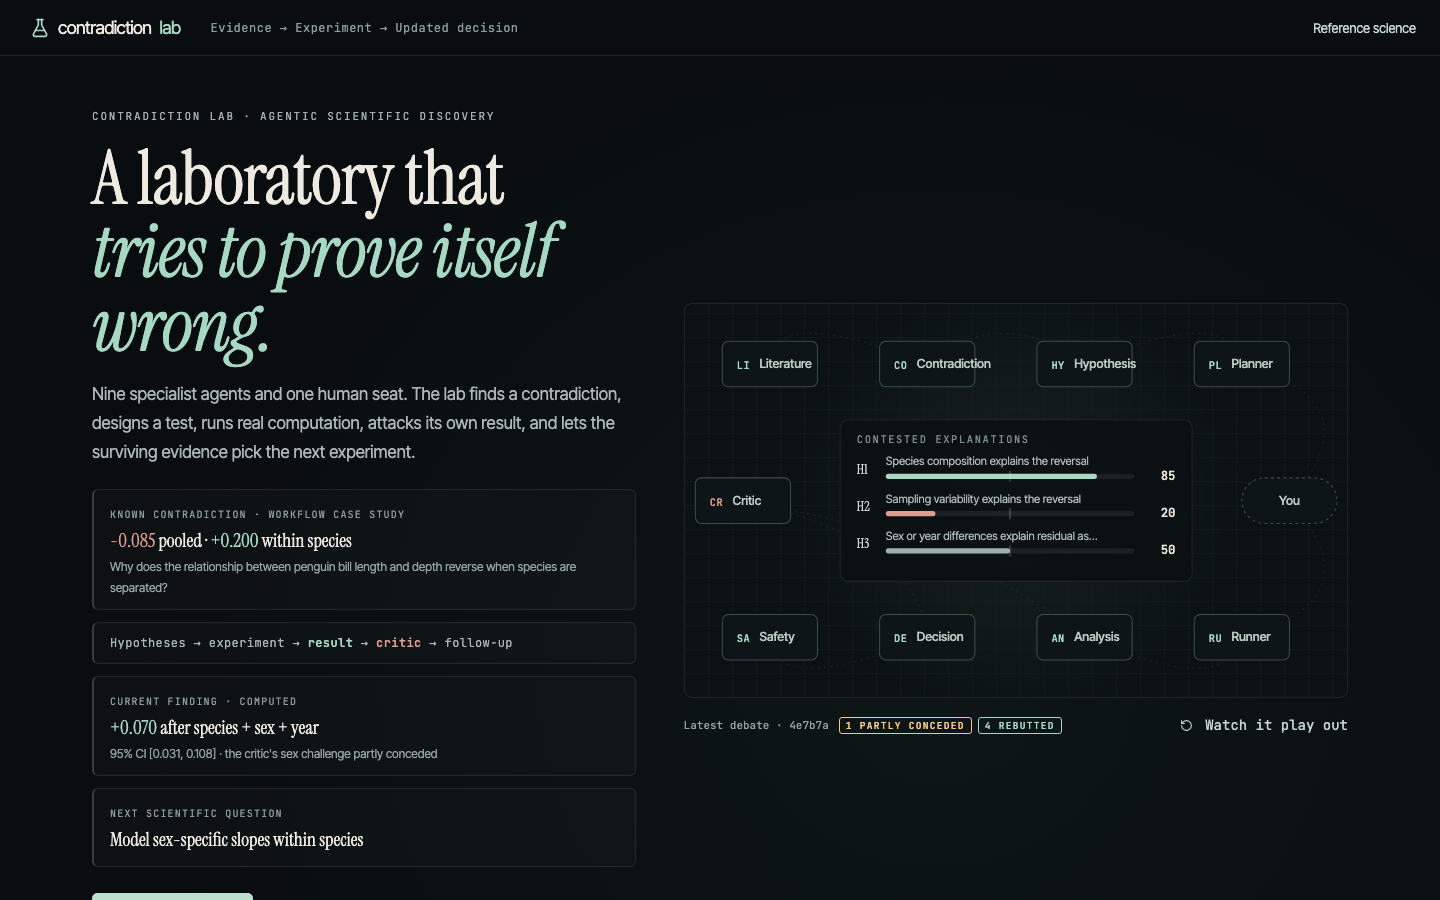
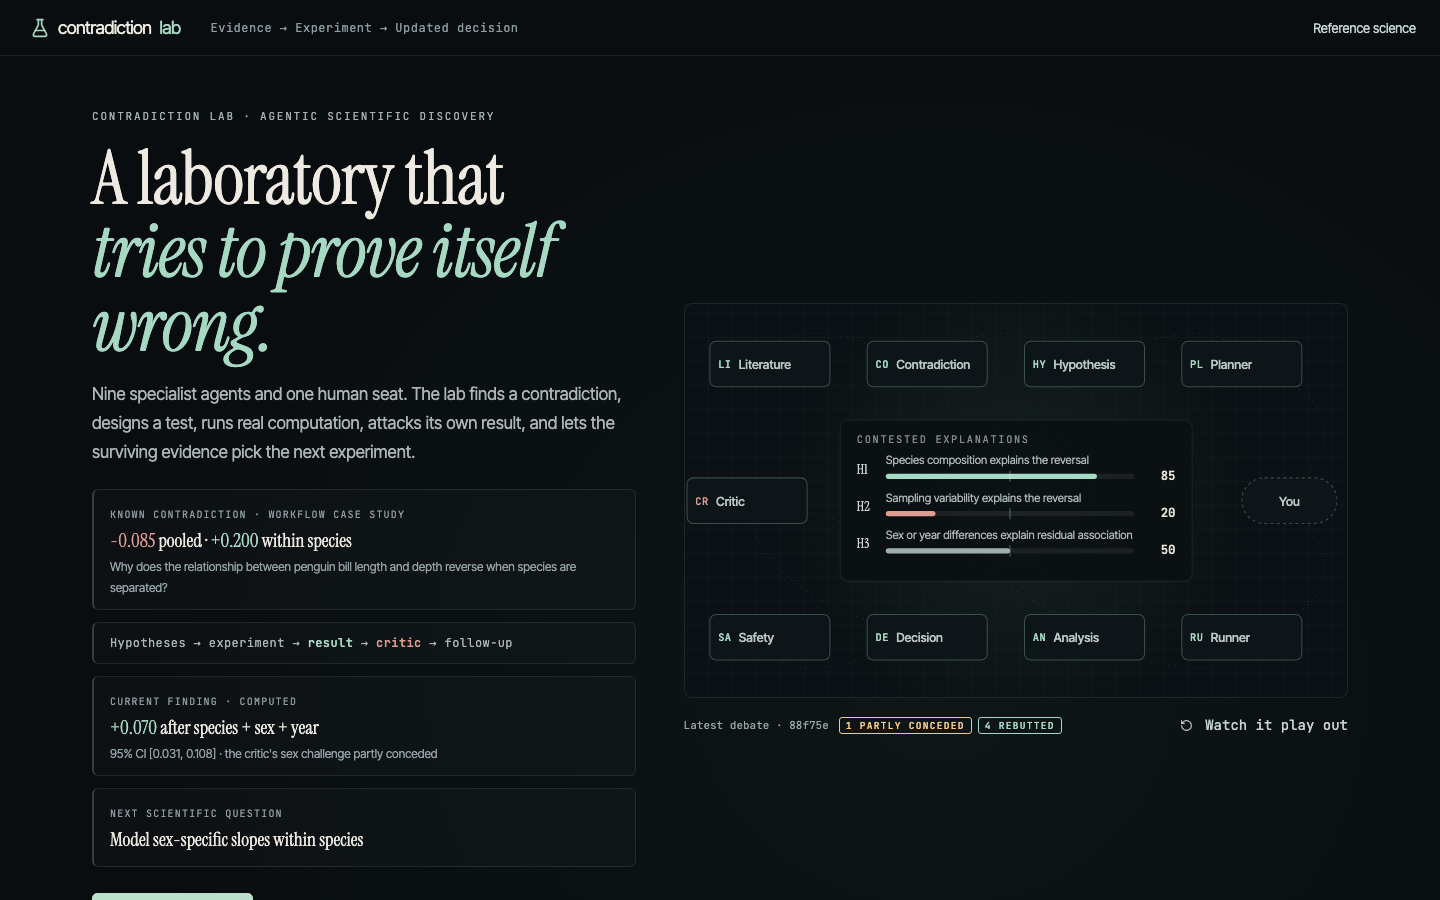
Arena text containment: HTML labels in SVG, flowed verdicts, stress-tested
Root causes, not symptoms: SVG <text> cannot wrap and ignores CSS overflow
rules, so seat names ("Contradiction") and board statements escaped their
rectangles no matter what overflow-wrap was set; the challenge cards'
absolutely-positioned verdict stamp could collide with long attack text.

- Seat and board labels now render as HTML inside <foreignObject>, with
  min-width: 0, hidden overflow and a real ellipsis; agent seats widened
  (92 → 116) so every real name fits and the ellipsis is only a safety net
- Challenge cards use flow layout (flex column, verdict via margin-top:
  auto) so cards grow vertically with long text instead of overlapping
- Transcript speaker column survives unbroken tokens (min-width: 0 +
  overflow-wrap: anywhere); packet pill width uses a mono-safe estimate
- Permanent Playwright stress test injects a 380-character unbroken string
  into a challenge card, the gap callout, a transcript line, a seat name
  and a board statement, then asserts no page or card overflow and real
  ellipsis clipping on the SVG-embedded labels

diff --git a/frontend/src/arena/Arena.tsx b/frontend/src/arena/Arena.tsx
@@ -16,7 +16,7 @@ const SEATS: Record<AgentId, { x: number; y: number }> = {
   AnalysisAgent: { x: 386, y: 322 },
   DecisionAgent: { x: 234, y: 322 },
   SafetyAgent: { x: 82, y: 322 },
-  CriticAgent: { x: 56, y: 190 },
+  CriticAgent: { x: 60, y: 190 },
 };
 const LANES: [AgentId, AgentId][] = [
   ['LiteratureAgent', 'ContradictionAgent'],
@@ -77,7 +77,7 @@ function Packet({ beat, speed }: { beat: Beat; speed: number }) {
   const p = at(r, t);
   const raw = beat.kind === 'defend' ? beat.label.toUpperCase() : beat.label;
   const label = raw.length > 24 ? raw.slice(0, 23) + '…' : raw;
-  const width = Math.min(180, label.length * 6.6 + 18);
+  const width = Math.min(190, label.length * 6.8 + 18);
   const payload = beat.kind === 'handoff' && beat.payload ? ' k-' + beat.payload : '';
   return (
     <g className={'packet ' + TONE[beat.kind] + payload} style={{ opacity: t >= 1 ? 0.0 : 1 }}>
@@ -95,26 +95,26 @@ function Packet({ beat, speed }: { beat: Beat; speed: number }) {
 function Seat({ id, state }: { id: AgentId; state: 'idle' | 'done' | 'active' | 'waiting' }) {
   const agent = agentOf(id)!;
   const { x, y } = SEATS[id];
+  // Wide enough for every real agent name; the label still ellipsizes as a safety net.
+  const width = id === 'Human' ? 92 : 116;
   return (
     <g
       className={'seat ' + state + (id === 'Human' ? ' human' : '') + (id === 'CriticAgent' ? ' critic' : '')}
     >
       {state === 'active' && <circle className="ripple" cx={x} cy={y} r={30} />}
-      <rect x={x - 46} y={y - 22} width={92} height={44} rx={id === 'Human' ? 22 : 6} />
-      {id === 'Human' ? (
-        <text className="name" x={x} y={y + 4} textAnchor="middle">
-          {state === 'waiting' ? 'You · approve' : 'You'}
-        </text>
-      ) : (
-        <>
-          <text className="initials" x={x - 32} y={y + 5}>
-            {agent.initials}
-          </text>
-          <text className="name" x={x - 10} y={y + 4}>
-            {agent.short}
-          </text>
-        </>
-      )}
+      <rect x={x - width / 2} y={y - 22} width={width} height={44} rx={id === 'Human' ? 22 : 6} />
+      <foreignObject x={x - width / 2} y={y - 22} width={width} height={44}>
+        <div className={'seat-label' + (id === 'Human' ? ' centered' : '')} title={agent.name}>
+          {id === 'Human' ? (
+            <span className="seat-name">{state === 'waiting' ? 'You · approve' : 'You'}</span>
+          ) : (
+            <>
+              <span className="seat-initials">{agent.initials}</span>
+              <span className="seat-name">{agent.short}</span>
+            </>
+          )}
+        </div>
+      </foreignObject>
     </g>
   );
 }
@@ -147,9 +147,11 @@ function Board({ record }: { record: RecordData | null }) {
             <text className="hid" x={166} y={y + 4}>
               {h.hypothesis_id}
             </text>
-            <text className="statement" x={194} y={y - 4}>
-              {h.statement.length > 44 ? h.statement.slice(0, 43) + '…' : h.statement}
-            </text>
+            <foreignObject x={194} y={y - 17} width={240} height={16}>
+              <div className="board-statement" title={h.statement}>
+                {h.statement}
+              </div>
+            </foreignObject>
             <rect className="track" x={194} y={y + 4} width={240} height={5} rx={2.5} />
             <rect className="fill" x={194} y={y + 4} width={(240 * value) / 100} height={5} rx={2.5} />
             <line className="prior" x1={194 + 120} x2={194 + 120} y1={y + 1} y2={y + 12} />

diff --git a/frontend/src/style.css b/frontend/src/style.css
@@ -2006,37 +2006,54 @@ meter::-webkit-meter-optimum-value {
     stroke 0.25s,
     fill 0.25s;
 }
-.seat text {
-  fill: #6f7d80;
-  transition: fill 0.25s;
+.seat-label {
+  box-sizing: border-box;
+  height: 100%;
+  display: flex;
+  align-items: center;
+  gap: 7px;
+  padding: 0 8px;
+  min-width: 0;
+  overflow: hidden;
+  color: #6f7d80;
+  transition: color 0.25s;
 }
-.seat .initials {
+.seat-label.centered {
+  justify-content: center;
+  padding: 0 6px;
+}
+.seat-initials {
+  flex-shrink: 0;
   font: 600 10px var(--mono);
   letter-spacing: 0.5px;
 }
-.seat .name {
+.seat-name {
+  min-width: 0;
+  overflow: hidden;
+  text-overflow: ellipsis;
+  white-space: nowrap;
   font: 500 12px var(--sans);
 }
 .seat.done rect {
   stroke: #a6d8c34d;
 }
-.seat.done text {
-  fill: #b9c8c3;
+.seat.done .seat-label {
+  color: #b9c8c3;
 }
-.seat.done .initials {
-  fill: var(--mint);
+.seat.done .seat-initials {
+  color: var(--mint);
 }
 .seat.active rect {
   fill: #18241f;
   stroke: #e9e4d8;
   stroke-width: 1.4;
 }
-.seat.active text {
-  fill: #f3efe6;
+.seat.active .seat-label {
+  color: #f3efe6;
 }
-.seat.critic.done .initials,
-.seat.critic.active .initials {
-  fill: var(--coral);
+.seat.critic.done .seat-initials,
+.seat.critic.active .seat-initials {
+  color: var(--coral);
 }
 .seat.critic.active rect {
   stroke: var(--coral);
@@ -2050,8 +2067,8 @@ meter::-webkit-meter-optimum-value {
   stroke-dasharray: none;
   fill: #2a2112;
 }
-.seat.human.waiting text {
-  fill: var(--amber);
+.seat.human.waiting .seat-label {
+  color: var(--amber);
 }
 .seat.human.waiting rect,
 .seat .ripple {
@@ -2096,9 +2113,13 @@ meter::-webkit-meter-optimum-value {
   font: 13px var(--serif);
   fill: #cfd8d4;
 }
-.board .statement {
-  font: 11px var(--sans);
-  fill: #a9b6b3;
+.board-statement {
+  font: 11px/16px var(--sans);
+  color: #a9b6b3;
+  min-width: 0;
+  overflow: hidden;
+  text-overflow: ellipsis;
+  white-space: nowrap;
 }
 .board .track {
   fill: #ffffff12;
@@ -2191,7 +2212,9 @@ meter::-webkit-meter-optimum-value {
   gap: 6px;
 }
 .challenge {
-  position: relative;
+  display: flex;
+  flex-direction: column;
+  min-width: 0;
   padding: 8px 9px 9px;
   border: 1px solid #ffffff1a;
   border-radius: 5px;
@@ -2203,15 +2226,16 @@ meter::-webkit-meter-optimum-value {
   color: var(--coral);
 }
 .challenge p {
-  margin: 4px 0 18px;
+  flex: 1;
+  min-width: 0;
+  margin: 4px 0 10px;
   font-size: 11.5px;
   line-height: 1.35;
   color: #b7c2c0;
 }
 .challenge b {
-  position: absolute;
-  left: 9px;
-  bottom: 7px;
+  margin-top: auto;
+  align-self: flex-start;
   font: 600 9.5px var(--mono);
   letter-spacing: 1.2px;
   text-transform: uppercase;
@@ -2271,6 +2295,8 @@ meter::-webkit-meter-optimum-value {
   color: #c9d5d1;
   text-transform: uppercase;
   letter-spacing: 0.5px;
+  min-width: 0;
+  overflow-wrap: anywhere;
 }
 .transcript p {
   margin: 0;

diff --git a/frontend/tests/demo.spec.ts b/frontend/tests/demo.spec.ts
@@ -61,6 +61,33 @@ test('debate: dashboard → arena playback → approval → critic → follow-up
   await expect(gap).toContainText('CRITIC FOUND A GAP');
   await expect(gap).toContainText('unresolved');
   await noCardOverflow(page);
+
+  // Stress: an absurdly long unbroken agent output must stay inside its rectangle and stay readable.
+  const LONG = 'Confounderhypothesiswithoutanyspaces'.repeat(9) + '-sha256:' + 'f'.repeat(64);
+  await page.evaluate((text) => {
+    for (const sel of [
+      '.challenge p',
+      '.gap-body h3 em',
+      '.transcript .line p',
+      '.seat-name',
+      '.board-statement',
+    ])
+      for (const el of Array.from(document.querySelectorAll<HTMLElement>(sel)).slice(0, 1))
+        el.textContent = text;
+  }, LONG);
+  expect(await noHorizontalScroll(page)).toBeTruthy();
+  await noCardOverflow(page);
+  // Seat names and board statements clip with a real ellipsis inside their SVG rects.
+  expect(
+    await page.evaluate(() =>
+      ['.seat-name', '.board-statement'].every((sel) => {
+        const el = document.querySelector<HTMLElement>(sel);
+        if (!el) return false;
+        const style = getComputedStyle(el);
+        return style.overflow === 'hidden' && style.textOverflow === 'ellipsis';
+      }),
+    ),
+  ).toBeTruthy();
   await gap.getByRole('button', { name: /Next experiment required/ }).click();
   await expect(page.getByRole('img', { name: /open critique branches back/ })).toBeVisible();
   await expect(page.locator('.why-decision')).toContainText('Awaiting your approval');
